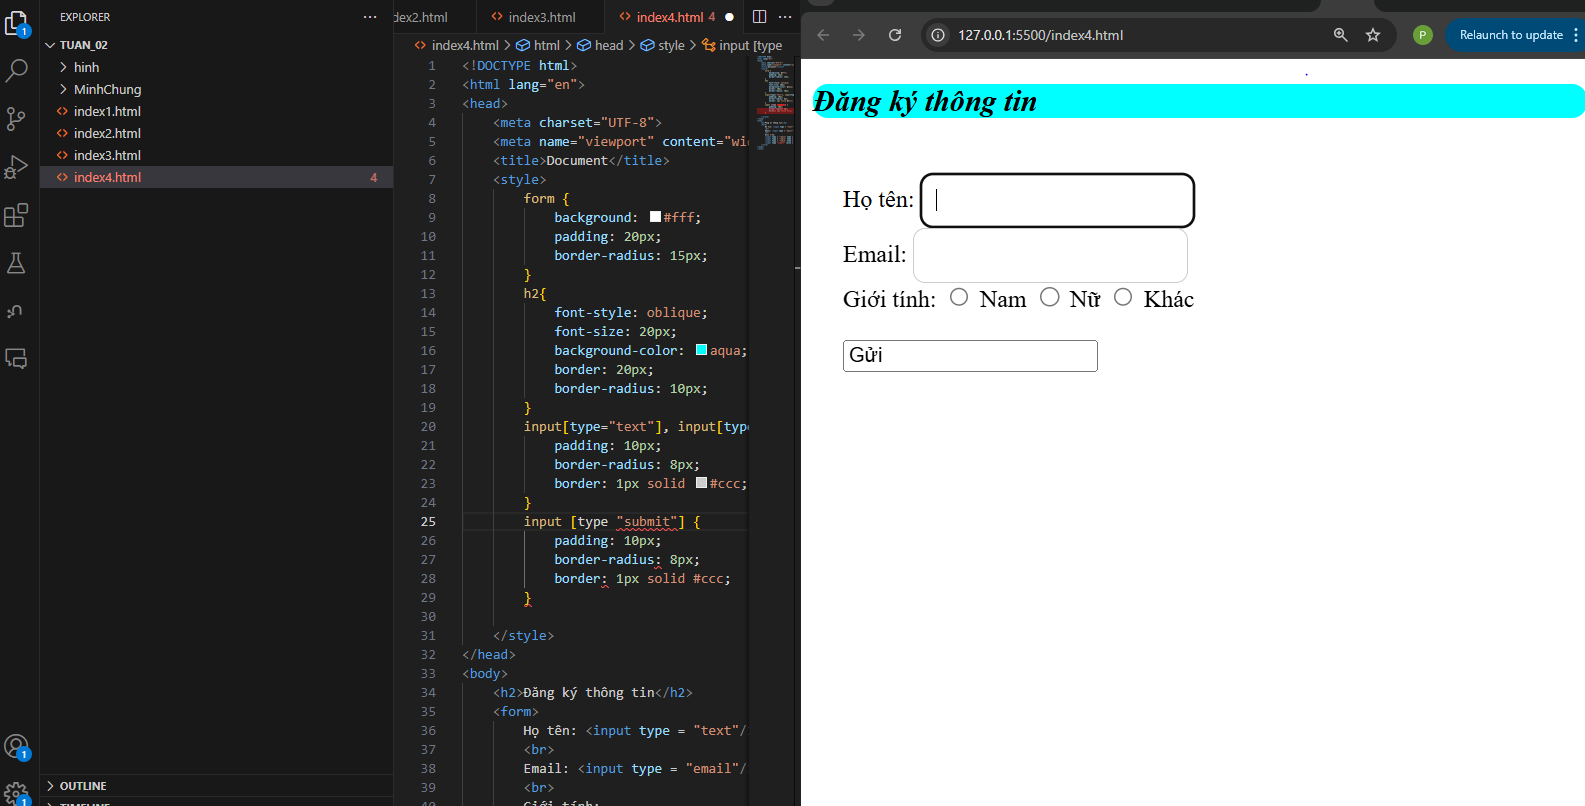
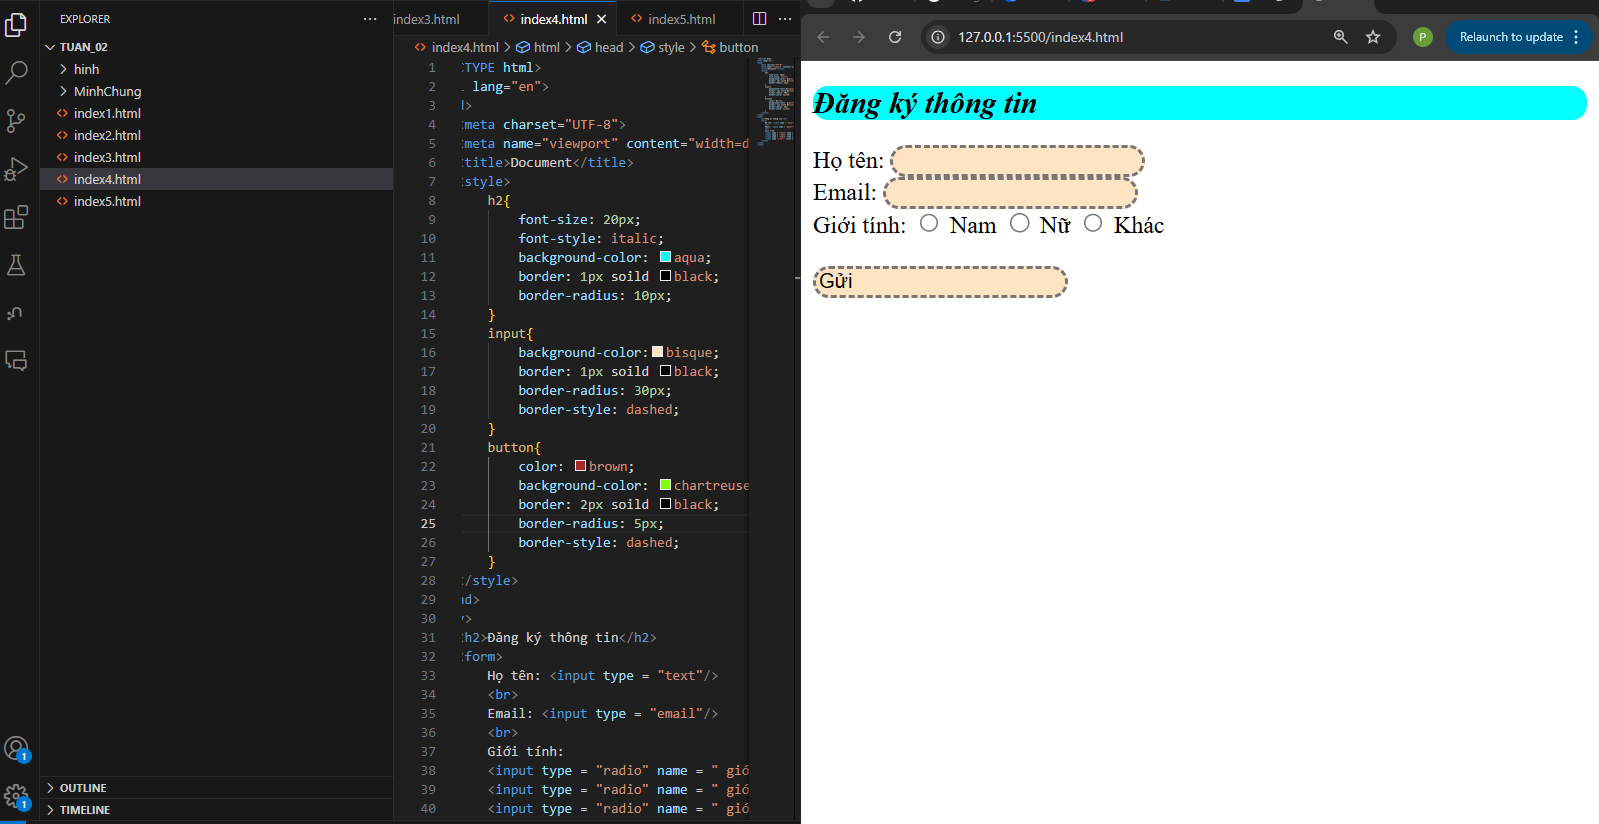
add Tuan02_index5.html + MC Cau5

diff --git a/TUAN_02/index4.html b/TUAN_02/index4.html
@@ -5,31 +5,26 @@
     <meta name="viewport" content="width=device-width, initial-scale=1.0">
     <title>Document</title>
     <style>
-        form {
-            background: #fff;
-            padding: 20px;
-            border-radius: 15px; 
-            width: 300px;
-        }
         h2{
-            font-style: oblique;
             font-size: 20px;
+            font-style: italic;
             background-color: aqua;
-            border: 20px;
+            border: 1px soild black;
             border-radius: 10px;
         }
-        input[type="text"], input[type="email"], input[type="radio"] {
-            padding: 10px;
-            border-radius: 8px; 
-            border: 1px solid #ccc;
+        input{
+            background-color:bisque;
+            border: 1px soild black;
+            border-radius: 30px;
+            border-style: dashed;
         }
-        input [type "submit"] {
-            width: 100;
-            padding: 10px;
-            border-radius: 8px; 
-            border: 1px solid #ccc;
+        button{
+            color: brown;
+            background-color: chartreuse;
+            border: 2px soild black;
+            border-radius: 5px;
+            border-style: dashed;
         }
-        
     </style>
 </head>
 <body>

diff --git a/TUAN_02/index5.html b/TUAN_02/index5.html
@@ -1,0 +1,29 @@
+<!DOCTYPE html>
+<html lang="en">
+<head>
+    <meta charset="UTF-8">
+    <meta name="viewport" content="width=device-width, initial-scale=1.0">
+    <title>Document</title>
+    <style>
+        h2, p{
+            text-align: center;
+        }
+        a{
+            text-decoration: none;
+            color:coral; 
+            font-size: 18px;
+            transition: color 0.3s;
+        }
+        a:hover {
+            color:cadetblue;
+        }
+        a:active {
+            text-decoration: underline;
+        }
+    </style>
+</head>
+<body>
+    <h2>Liên kết điều hướng</h2>
+    <p>Truy cập: <a href="https://www.facebook.com/?locale=vi_VN" target="_blank">Facebook</a></p>
+</body>
+</html>
